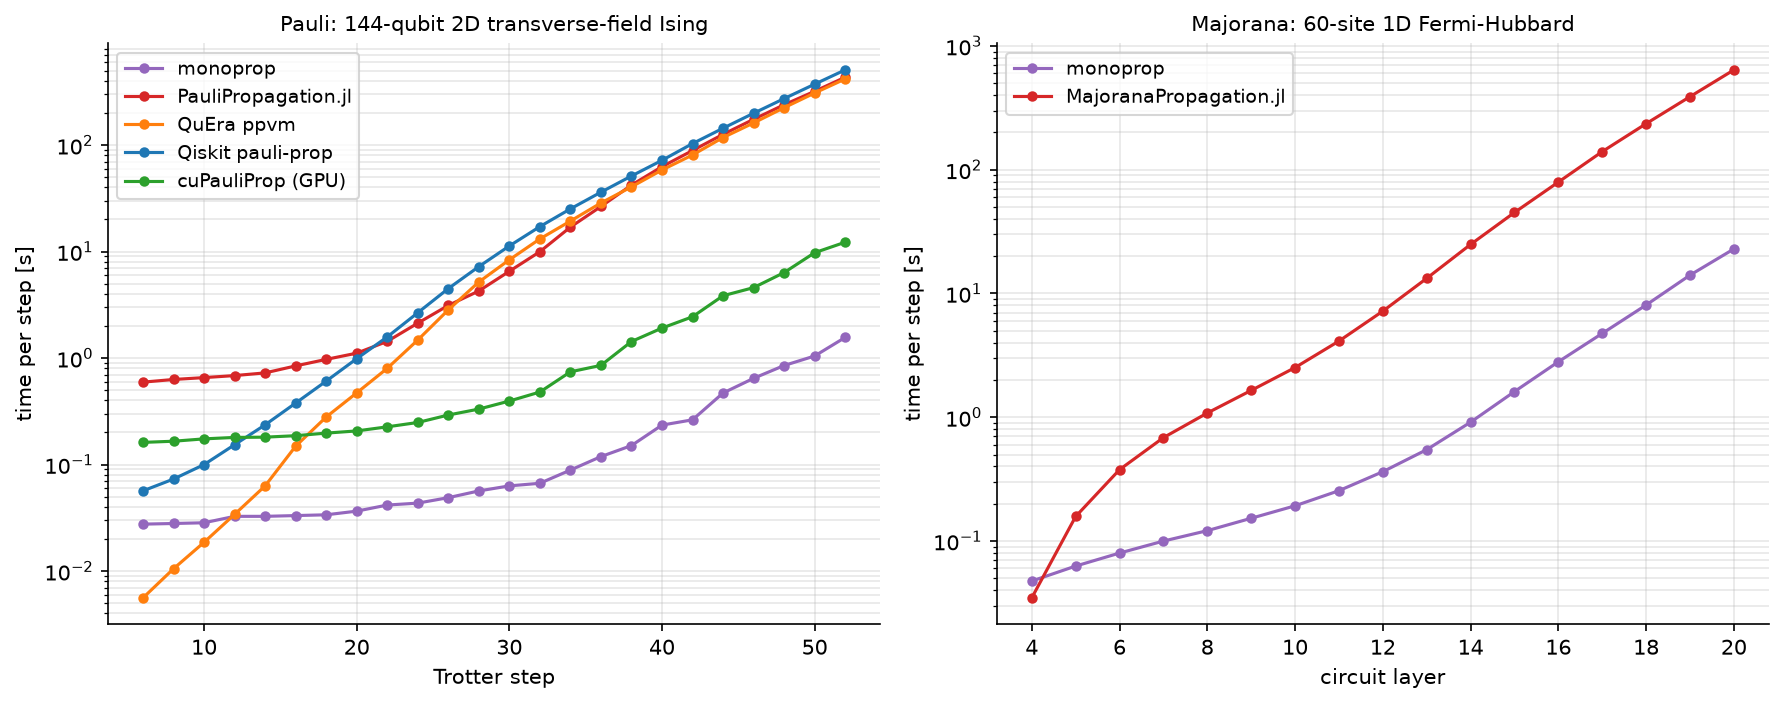
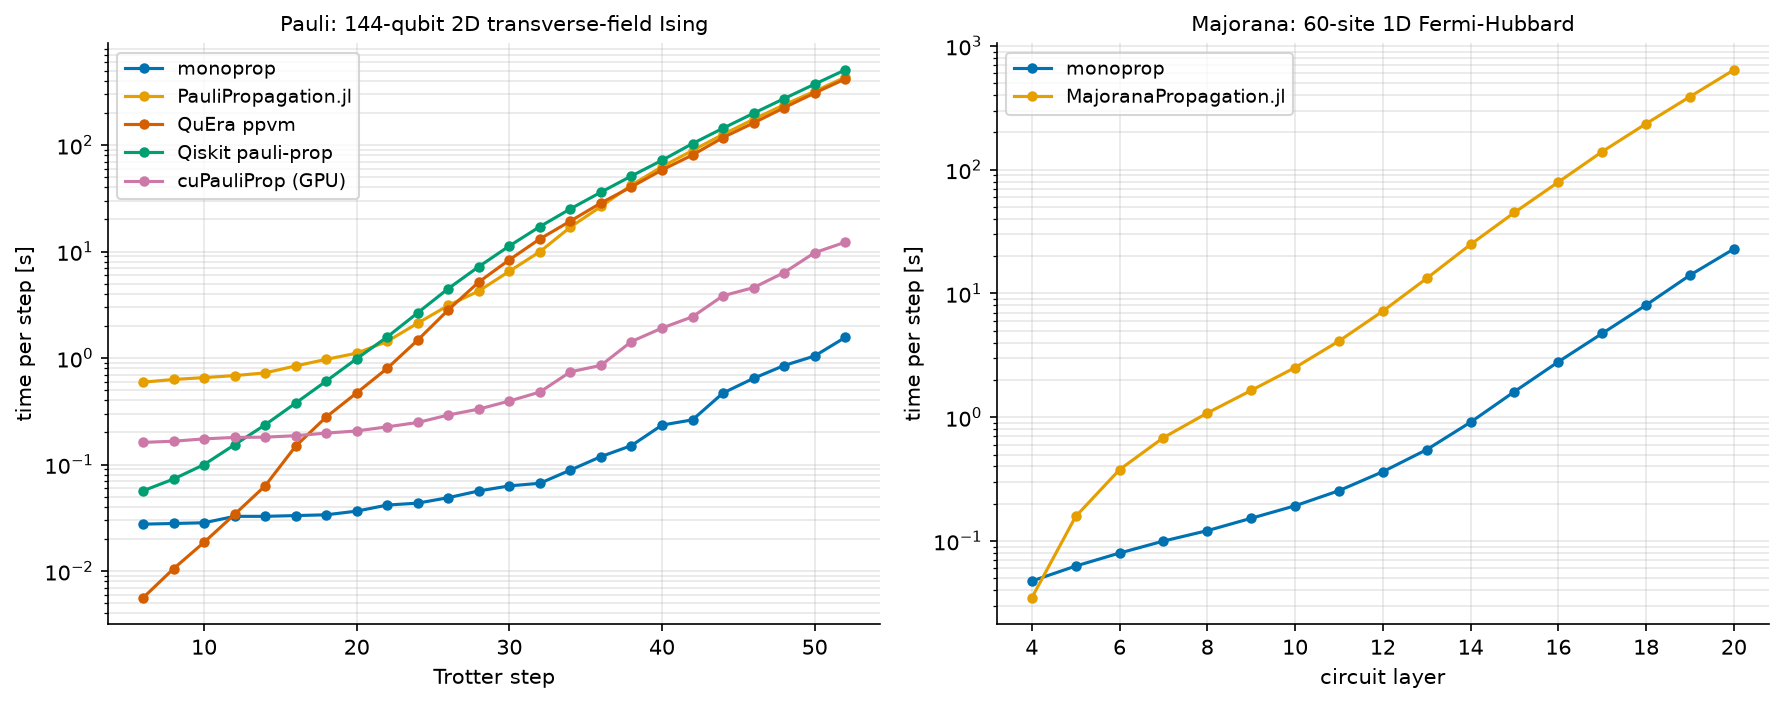
feat: make a shared palette for plots.

diff --git a/packages/bench-third-party/palette.py b/packages/bench-third-party/palette.py
@@ -1,0 +1,42 @@
+# Copyright 2026 Algorithmiq
+#
+# Licensed under the Apache License, Version 2.0 (the "License");
+# you may not use this file except in compliance with the License.
+# You may obtain a copy of the License at
+#
+#     http://www.apache.org/licenses/LICENSE-2.0
+#
+# Unless required by applicable law or agreed to in writing, software
+# distributed under the License is distributed on an "AS IS" BASIS,
+# WITHOUT WARRANTIES OR CONDITIONS OF ANY KIND, either express or implied.
+# See the License for the specific language governing permissions and
+# limitations under the License.
+
+"""The engine to colour mapping shared by every figure in this directory.
+
+One mapping for the whole suite, so an engine keeps its colour as a reader moves between the
+headline, per-step, scaling and speed-up figures. The hues are the Okabe-Ito qualitative
+palette, which stays separable under the common forms of colour blindness.
+"""
+
+from __future__ import annotations
+
+ENGINE_COLORS = {
+    "monoprop": "#0072B2",
+    "QuEra ppvm": "#D55E00",
+    "Qiskit pauli-prop": "#009E73",
+    "cuPauliProp (GPU)": "#CC79A7",
+    "PauliPropagation.jl": "#E69F00",
+    # Each family's Julia reference engine; the two never appear on the same axes.
+    "MajoranaPropagation.jl": "#E69F00",
+}
+
+# Legend and bar order for the Pauli figures. Also the membership test that keeps a Majorana
+# engine out of a Pauli figure's legend, so it cannot be widened by adding a key above.
+PAULI_ENGINES = [
+    "monoprop",
+    "QuEra ppvm",
+    "Qiskit pauli-prop",
+    "cuPauliProp (GPU)",
+    "PauliPropagation.jl",
+]

diff --git a/packages/bench-third-party/pauli_prop/plot_scaling.py b/packages/bench-third-party/pauli_prop/plot_scaling.py
@@ -27,6 +27,7 @@ from __future__ import annotations
 import argparse
 import json
 import re
+import sys
 from pathlib import Path
 
 import matplotlib
@@ -34,16 +35,9 @@ import matplotlib
 matplotlib.use("Agg")
 import matplotlib.pyplot as plt  # noqa: E402
 
-# Fixed per backend so the runtime and memory figures, successive runs, and the speed-up
-# chart in plot_speedup.py all keep the same colour->backend mapping.
-COLORS = {
-    "monoprop": "#0072B2",
-    "QuEra ppvm": "#D55E00",
-    "Qiskit pauli-prop": "#009E73",
-    "cuPauliProp (GPU)": "#CC79A7",
-    "PauliPropagation.jl": "#E69F00",
-}
-ORDER = list(COLORS)
+sys.path.append(str(Path(__file__).resolve().parent.parent))
+from palette import ENGINE_COLORS as COLORS  # noqa: E402
+from palette import PAULI_ENGINES as ORDER  # noqa: E402
 
 # Backends whose operator lives in device memory. Host RSS does not describe their
 # footprint at all -- it stays flat while the card fills up -- so the working-set column

diff --git a/packages/bench-third-party/plot_headline.py b/packages/bench-third-party/plot_headline.py
@@ -27,17 +27,9 @@ from pathlib import Path
 
 import matplotlib.pyplot as plt
 
-HERE = Path(__file__).parent
+from palette import ENGINE_COLORS as COLORS
 
-# monoprop keeps one colour across both panels; the rest only have to be distinguishable.
-COLORS = {
-    "monoprop": "tab:purple",
-    "QuEra ppvm": "tab:orange",
-    "Qiskit pauli-prop": "tab:blue",
-    "cuPauliProp (GPU)": "tab:green",
-    "PauliPropagation.jl": "tab:red",
-    "MajoranaPropagation.jl": "tab:red",
-}
+HERE = Path(__file__).parent
 
 # The first Pauli steps are dominated by warm-up rather than by propagation; the first Majorana
 # layers by an operator still too small to time. Both would otherwise spend decades of a log axis

diff --git a/packages/bench-third-party/majorana_prop/plot_results.py b/packages/bench-third-party/majorana_prop/plot_results.py
@@ -16,11 +16,13 @@ from __future__ import annotations
 
 import argparse
 import json
+import sys
 from pathlib import Path
 
 import matplotlib.pyplot as plt
 
-COLORS = {"monoprop": "tab:purple", "MajoranaPropagation.jl": "tab:red"}
+sys.path.append(str(Path(__file__).resolve().parent.parent))
+from palette import ENGINE_COLORS as COLORS  # noqa: E402
 
 
 def plot_metric(
